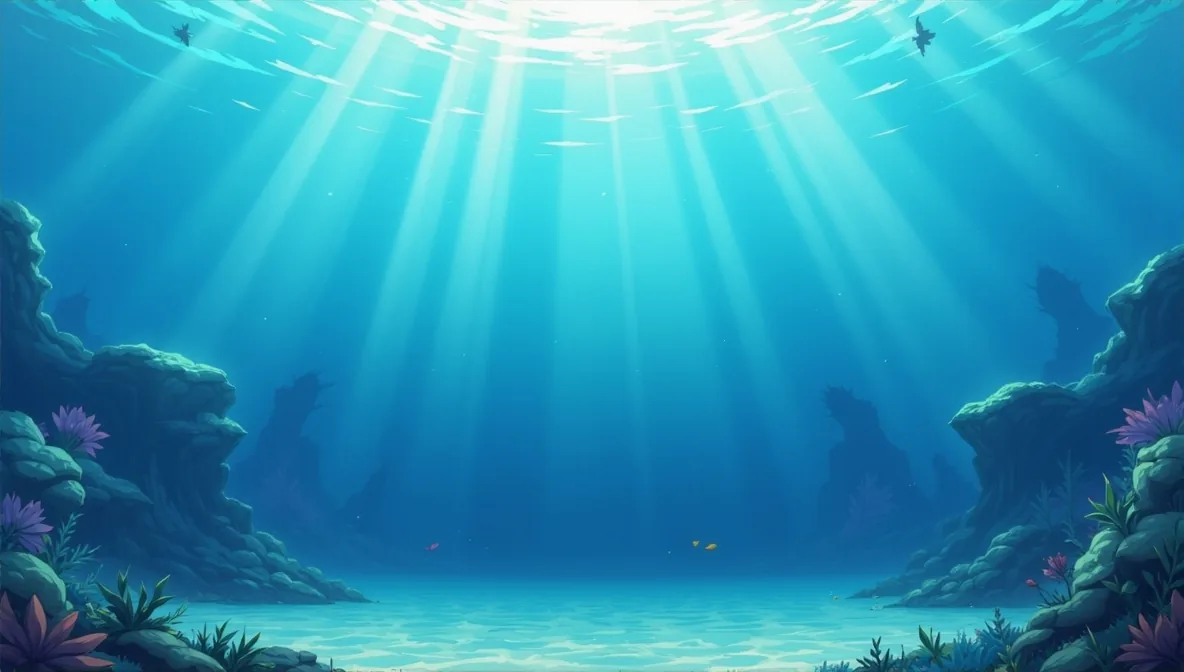
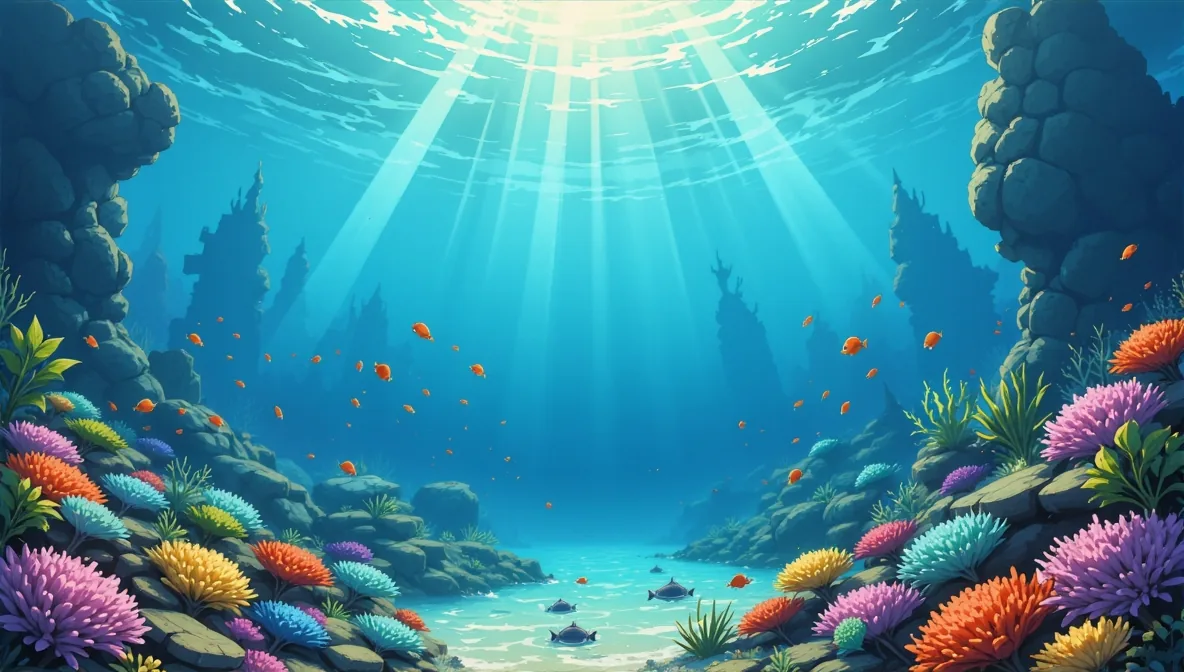
Pick up the swapped level backgrounds, and fix a stale zone list
Regenerated the webp backgrounds the game actually loads from the current, renumbered source
art in Images/Levels - public/levels/*.webp for Campaign and public/levels/endless/*.webp for
Depthless.

Along the way, convert_level_backgrounds.py's zone-folder list had drifted from the real
folders: it looked for "3. Abyssopelagic" and "4. Mythopelagic", which don't exist, instead of
the actual "3. Bathypelagic" and "4. Abyssopelagic" (matching DEPTH_ZONES in levels.ts). Levels
21-40 had been silently falling back to a neighbouring level's art rather than their own. Fixed
the list and taught it to accept a "<level>.1" filename as a level's source when no plain
"<level>" file exists, so a spare/revision image in the same folder does not have to be moved
out of the way.

There was no equivalent script for the Campaign side, so added
tools/convert_campaign_backgrounds.py - same source (Images/Levels/Campaign/<level>.png|jpg),
same scale and quality, output to public/levels/<level>.webp instead of the endless subfolder.

Two things worth flagging rather than silently fixing, since either could be deliberate:
- Campaign and Depthless levels 1, 3, 4 and 5 still use identical source art between the two
  folders - only 2, 6, 7, 8, 9 and 10 currently differ.
- Images/Levels/5. Hadal/41.png, 42.png and 43.png are byte-identical, so Depthless levels
  41-43 currently share one image.

diff --git a/tools/convert_campaign_backgrounds.py b/tools/convert_campaign_backgrounds.py
@@ -1,0 +1,99 @@
+"""Convert the authored Campaign level art into the webp files the game loads.
+
+Source: Images/Levels/Campaign/<level>.png|jpg, numbered 1-10.
+Output: public/levels/<level>.webp
+
+Campaign and Depthless levels 1-10 are deliberately different art, not shared - see
+convert_level_backgrounds.py for the Depthless/Endless side (Images/Levels/<zone>/<level>.png,
+output under public/levels/endless/). Same scale and quality as that script, so the two sets
+read as one visual family: the game cover-scales each background over a 600px square canvas
+with a 1.14 overscan, so anything past ~900px on the short side is thrown away, and quality 82
+is well past the point these gradient-heavy ocean scenes show artefacts.
+
+Usage: python tools/convert_campaign_backgrounds.py [--check]
+  --check reports what is missing and what would change, without writing anything.
+"""
+
+import os
+import sys
+from PIL import Image
+
+SRC_DIR = os.path.join("Images", "Levels", "Campaign")
+OUT_DIR = os.path.join("public", "levels")
+SHORT_SIDE = 900
+QUALITY = 82
+LAST_LEVEL = 10
+
+
+def find_sources() -> dict[int, str]:
+    """Maps level number -> source file, from the numbered files in SRC_DIR.
+
+    A stem is either a bare level number ("3.png") or a level number with a ".1" suffix
+    ("3.1.png") - the second form wins only when the bare form is absent, so the folder can
+    hold both an in-use image and a spare/revision without the spare silently overwriting it.
+    """
+    found: dict[int, str] = {}
+    fallback: dict[int, str] = {}
+    if not os.path.isdir(SRC_DIR):
+        return found
+    for name in sorted(os.listdir(SRC_DIR)):
+        stem, ext = os.path.splitext(name)
+        if ext.lower() not in (".png", ".jpg", ".jpeg", ".webp"):
+            continue
+        path = os.path.join(SRC_DIR, name)
+        if stem.isdigit():
+            found[int(stem)] = path
+        elif stem.endswith(".1") and stem[:-2].isdigit():
+            fallback[int(stem[:-2])] = path
+    for level, path in fallback.items():
+        found.setdefault(level, path)
+    return found
+
+
+def convert(src: str, dst: str) -> int:
+    im = Image.open(src).convert("RGB")
+    w, h = im.size
+    scale = SHORT_SIDE / min(w, h)
+    if scale < 1:
+        im = im.resize((round(w * scale), round(h * scale)), Image.LANCZOS)
+    im.save(dst, "WEBP", quality=QUALITY, method=6)
+    return os.path.getsize(dst)
+
+
+def main() -> int:
+    check_only = "--check" in sys.argv
+    sources = find_sources()
+    missing = [n for n in range(1, LAST_LEVEL + 1) if n not in sources]
+    extra = sorted(n for n in sources if n > LAST_LEVEL)
+
+    if missing:
+        print(f"MISSING art for level(s): {', '.join(map(str, missing))}")
+    if extra:
+        print(f"Ignoring numbers past {LAST_LEVEL}: {extra}")
+    if check_only:
+        print(f"{len(sources)} source images found.")
+        return 1 if missing else 0
+
+    if missing:
+        # A level with no art would load nothing and leave the player staring at a bare canvas,
+        # so gaps are filled from the nearest level that does have art. Printed every run rather
+        # than recorded anywhere, so it stays visible until the real art lands.
+        for level in missing:
+            nearest = min((n for n in sources if n <= LAST_LEVEL), key=lambda n: (abs(n - level), n))
+            sources[level] = sources[nearest]
+            print(f"  level {level}: standing in with level {nearest}'s art")
+
+    os.makedirs(OUT_DIR, exist_ok=True)
+    total = 0
+    for level in sorted(n for n in sources if n <= LAST_LEVEL):
+        dst = os.path.join(OUT_DIR, f"{level}.webp")
+        size = convert(sources[level], dst)
+        total += size
+        print(f"{level:>3}  {os.path.basename(sources[level]):<12} -> {size / 1024:6.1f} KB")
+    count = len([n for n in sources if n <= LAST_LEVEL])
+    print(f"\n{count} backgrounds, {total / 1024 / 1024:.2f} MB total")
+    return 1 if missing else 0
+
+
+if __name__ == "__main__":
+    raise SystemExit(main())

diff --git a/tools/convert_level_backgrounds.py b/tools/convert_level_backgrounds.py
@@ -22,30 +22,43 @@ SHORT_SIDE = 900
 QUALITY = 82
 LAST_LEVEL = 50
 # Folders whose numbers are the level numbers. Anything else under Images/Levels (spares,
-# rejects, the Redo pile) is ignored.
+# rejects, the Redo pile) is ignored. Must match DEPTH_ZONES in src/levels.ts - this list had
+# drifted from the real folder names (it named zones 3 and 4 "Abyssopelagic"/"Mythopelagic",
+# which don't exist on disk; the actual folders are "Bathypelagic" and "Abyssopelagic"), so
+# levels 21-40 silently fell back to their nearest neighbour's art.
 ZONES = [
     "1. Eutrophic",
     "2. Mesopelagic",
-    "3. Abyssopelagic",
-    "4. Mythopelagic",
+    "3. Bathypelagic",
+    "4. Abyssopelagic",
     "5. Hadal",
 ]
 
 
 def find_sources() -> dict[int, str]:
-    """Maps level number -> source file, from the numbered zone folders."""
+    """Maps level number -> source file, from the numbered zone folders.
+
+    A stem is either a bare level number ("11.png") or a level number with a ".1" suffix
+    ("3.1.png") - the second form wins only when the bare form is absent, so a folder can hold
+    both an in-use image and a spare/revision without the spare silently overwriting it.
+    """
     found: dict[int, str] = {}
+    fallback: dict[int, str] = {}
     for zone in ZONES:
         zone_dir = os.path.join(SRC_ROOT, zone)
         if not os.path.isdir(zone_dir):
             continue
-        for name in os.listdir(zone_dir):
+        for name in sorted(os.listdir(zone_dir)):
             stem, ext = os.path.splitext(name)
             if ext.lower() not in (".png", ".jpg", ".jpeg", ".webp"):
                 continue
-            if not stem.isdigit():
-                continue
-            found[int(stem)] = os.path.join(zone_dir, name)
+            path = os.path.join(zone_dir, name)
+            if stem.isdigit():
+                found[int(stem)] = path
+            elif stem.endswith(".1") and stem[:-2].isdigit():
+                fallback[int(stem[:-2])] = path
+    for level, path in fallback.items():
+        found.setdefault(level, path)
     return found
 
 
